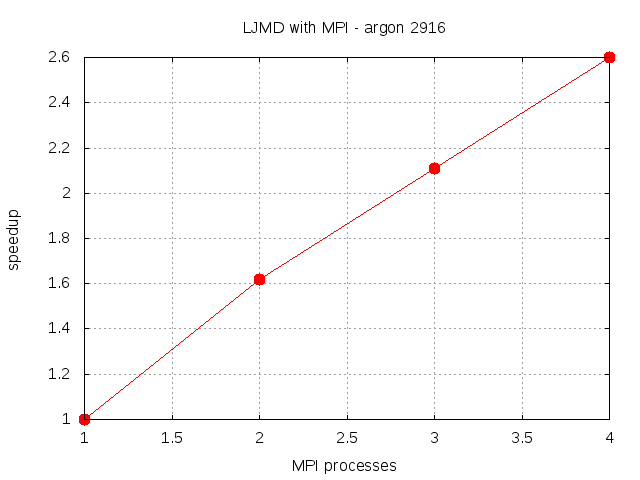
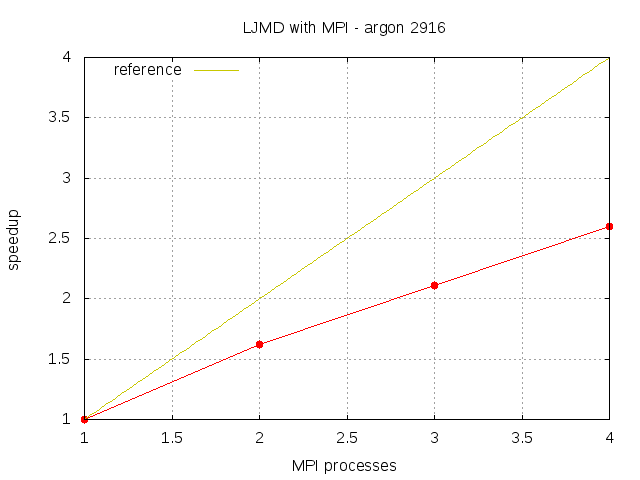
readme + plots

diff --git a/src/utilities.c b/src/utilities.c
@@ -57,37 +57,37 @@ void pair(mdsys_t *sys) {
                 sys->pair.push_back(c1);
                 sys->pair.push_back(c2);
             }
-            // pierodic in i, 2 cases
+            // periodic in i, 2 cases
             else if (dist+n*n+2*n*di<4 || dist+n*n-2*n*di<4){
                 sys->pair.push_back(c1);
                 sys->pair.push_back(c2);
             }
-            // pierodic in j, 2 cases
+            // periodic in j, 2 cases
             else if (dist+n*n+2*n*dj<4 || dist+n*n-2*n*dj<4){
                 sys->pair.push_back(c1);
                 sys->pair.push_back(c2);
             }
-            // pierodic in k, 2 cases
+            // periodic in k, 2 cases
             else if (dist+n*n+2*n*dk<4 || dist+n*n-2*n*dk<4){
                 sys->pair.push_back(c1);
                 sys->pair.push_back(c2);
             }
-            // pierodic in i,j, 4 cases
+            // periodic in i,j, 4 cases
             else if (dist+2*n*n+2*n*(di+dj)<4 || dist+2*n*n+2*n*(di-dj)<4 || dist+2*n*n+2*n*(dj-di)<4|| dist+2*n*n-2*n*(di+dj)<4){
                 sys->pair.push_back(c1);
                 sys->pair.push_back(c2);
             }
-            // pierodic in i,k, 4 cases
+            // periodic in i,k, 4 cases
             else if (dist+2*n*n+2*n*(di+dk)<4 || dist+2*n*n+2*n*(di-dk)<4 || dist+2*n*n+2*n*(dk-di)<4|| dist+2*n*n-2*n*(di+dk)<4){
                 sys->pair.push_back(c1);
                 sys->pair.push_back(c2);
             }
-            // pierodic in j,k, 4 cases
+            // periodic in j,k, 4 cases
             else if (dist+2*n*n+2*n*(dk+dj)<4 || dist+2*n*n+2*n*(dk-dj)<4 || dist+2*n*n+2*n*(dj-dk)<4|| dist+2*n*n-2*n*(dk+dj)<4){
                 sys->pair.push_back(c1);
                 sys->pair.push_back(c2);
             }
-            // peirodic in ijk, 8 cases
+            // periodic in ijk, 8 cases
             else if (dist+3*n*n+2*n*(dk+dj+di)<4 || dist+3*n*n+2*n*(dk+dj-di)<4 || dist+3*n*n+2*n*(-dk+dj+di)<4 || dist+3*n*n+2*n*(dk-dj+di)<4 || dist+3*n*n+2*n*(-dk-dj+di)<4 || dist+3*n*n+2*n*(-dk+dj-di)<4 || dist+3*n*n+2*n*(dk-dj-di)<4 || dist+3*n*n-2*n*(dk+dj+di)<4){
                 sys->pair.push_back(c1);
                 sys->pair.push_back(c2);

diff --git a/README.md b/README.md
@@ -3,13 +3,52 @@ P1.6 group assignment (GROUP 1): Lennard-Jones Molecular Dynamics
 
 ## Collaborators:
 
-             - Jiaxin Wang         ---> GitHub: ricphy 
-             
+             - Jiaxin Wang         ---> GitHub: ricphy
+
              - Marco Bettiol       ---> GitHub: marcob3t
-             
+
              - Carolina Bonivento  ---> GitHub: carolinabonivento
-             
+
              - Alejandra Foggia    ---> GitHub: amfoggia
+
+## How To:
+
+Molecular Dynamics with Lennard-Jones potential energy.
+
+This code can be used in a wide variety of ways:
+
+     1) depending on the hardware available:
+         -- Serial code
+         -- Parallel code with:
+			          --- OpenMP
+			          --- MPI
+
+     2) With or without a major optimization: cell list
+     3) And with different implementations of the `force` function
+
+#### Basic Compilation
+
+The `Makefile` contained in this root folder allows you to compile the code in its serial version, typing `make serial`, in its OpenMP parallel version, typing `make openmp`, or in its MPI parallel version, typing `make mpi`. The default option `make` generates the three executables.
+
+Two other options are possible. Typing `make unitest`, a series of test are performed on the different functions, taking as argument the input files inside the `examples` folder. Also with `make check` not only the unit (function) tests are performed but also the integration tests for the serial, OpenMP and MPI version.
+
+#### Selecting the force function
+
+Inside each `objects_` folder there's a `Makefile` in where several flags can be activated. In each one the following flags are available:
+
+1) F_INDEX_ARRAY (to use the force function where the third Newton's law is applied, the loop is linearized and the indexes are pre-calculated in an array)
+
+2) F_ATOMIC (to use the force function where the third Newton's law is applied and an atomic operation is performed by OpenMP)
+
+3) F_BASIC (to use the force function where the Newton's third law is not applied)
+
+4) The default one is the latest version of the force function, where the third Newton's law is implemented, the loop is linearized and the indexes are calculated in the loop.
+
+In order to make OpenMP available the flag `-fopenmp` needs to be added in `CFLAGS`. To use MPI, the corresponding flag is `USE_MPI`. OpenMP and also MPI are available for all the previous versions of the `force` function.
+
+#### Using the cell list optimization
+
+The cell list optimization is only available to use it with the serial code and the force function is special in this case. In order to make this available the flag `CELL` needs to be added in the `CFLAGS`. This can be added in all of the `objects_.../Makefile` but the program has no parallel optimization implemented in that case.
 
 ## Contributions:
 
@@ -62,13 +101,13 @@ aggressive truncation is better than spherical truncation:
 /* get distance between particle i and j */
 rx=pbc(sys->rx[i] - sys->rx[j], boxby2);
 rsq = rx*rx;
-if(rsq>rcutsq) continue; 
+if(rsq>rcutsq) continue;
 ry=pbc(sys->ry[i] - sys->ry[j], boxby2);
 rsq += ry*ry;
-if(rsq>rcutsq) continue; 
+if(rsq>rcutsq) continue;
 rz=pbc(sys->rz[i] - sys->rz[j], boxby2);
 rsq += rz*rz;
-if(rsq>rcutsq) continue; 
+if(rsq>rcutsq) continue;
 ```
 which is a temporary solution before implementing cell-list
 
@@ -219,7 +258,7 @@ the advantage disappeared with multi-threading.
 |11899|7.68|9|+agg. trunc newt(lin.loop, replicated mem, inplace indexes)|
 |10952|8.35|10|+agg. trunc newt(lin.loop, replicated mem, inplace indexes)|
 
-
+![omp_all](https://user-images.githubusercontent.com/26146472/35590358-f4193db4-0606-11e8-8688-845aab138177.png)
 
 |argon_2916 (ms)|speedup|MPI_procs/OMP_threads|feature|
 |--------------|--------|---------------------|-------|
@@ -228,6 +267,7 @@ the advantage disappeared with multi-threading.
 |30437|2.11|3/1|+Newton +agg.|
 |24761|2.60|4/1|+Newton +agg.|
 
+![mpi](https://user-images.githubusercontent.com/26146472/35590406-0e9ac43c-0607-11e8-9fea-5bdcd2f5d3fe.png)
 
 * applying cell-list
 
@@ -275,8 +315,3 @@ force function (+ sorting atoms into cells) accumulated timing:
 |--------------|---------------|-------|
 |2999|99288|original|
 |1543|22633|serial cell-list|
-
-
-
-
-
